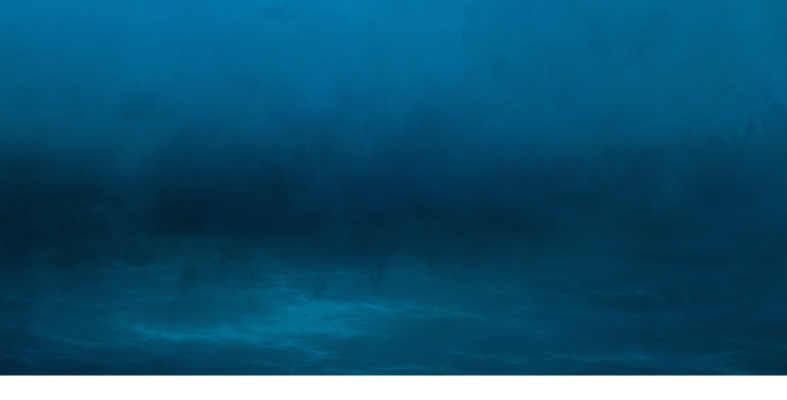
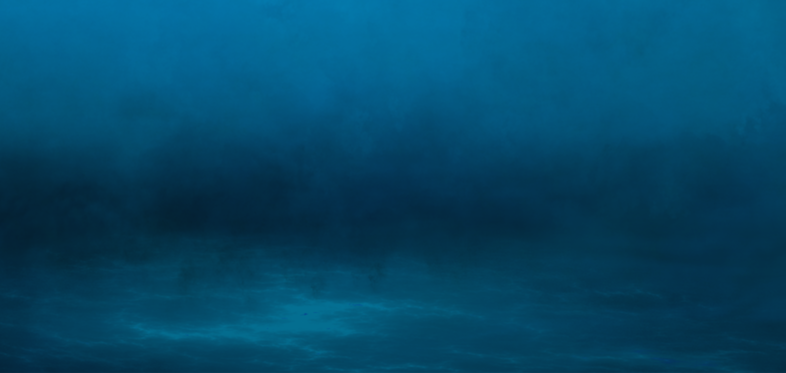
fix footer background and background image

diff --git a/css/main.css b/css/main.css
@@ -307,7 +307,6 @@ body {
     background-image: url('../img/background6.png');
     background-attachment: fixed;
     background-size: cover;
-    /*-webkit-background-size: cover;*/
     color: #FFFFFF;
     font-family: 'Lato', sans-serif;
     font-size: 1.1em;
@@ -601,7 +600,7 @@ a:hover, a:active {
     background: #333333;
     font-size: 0.8em;
     margin: 0;
-    opacity: 0.9;
+    opacity: 0.8;
     padding: 0;
     text-align: center;
 }
